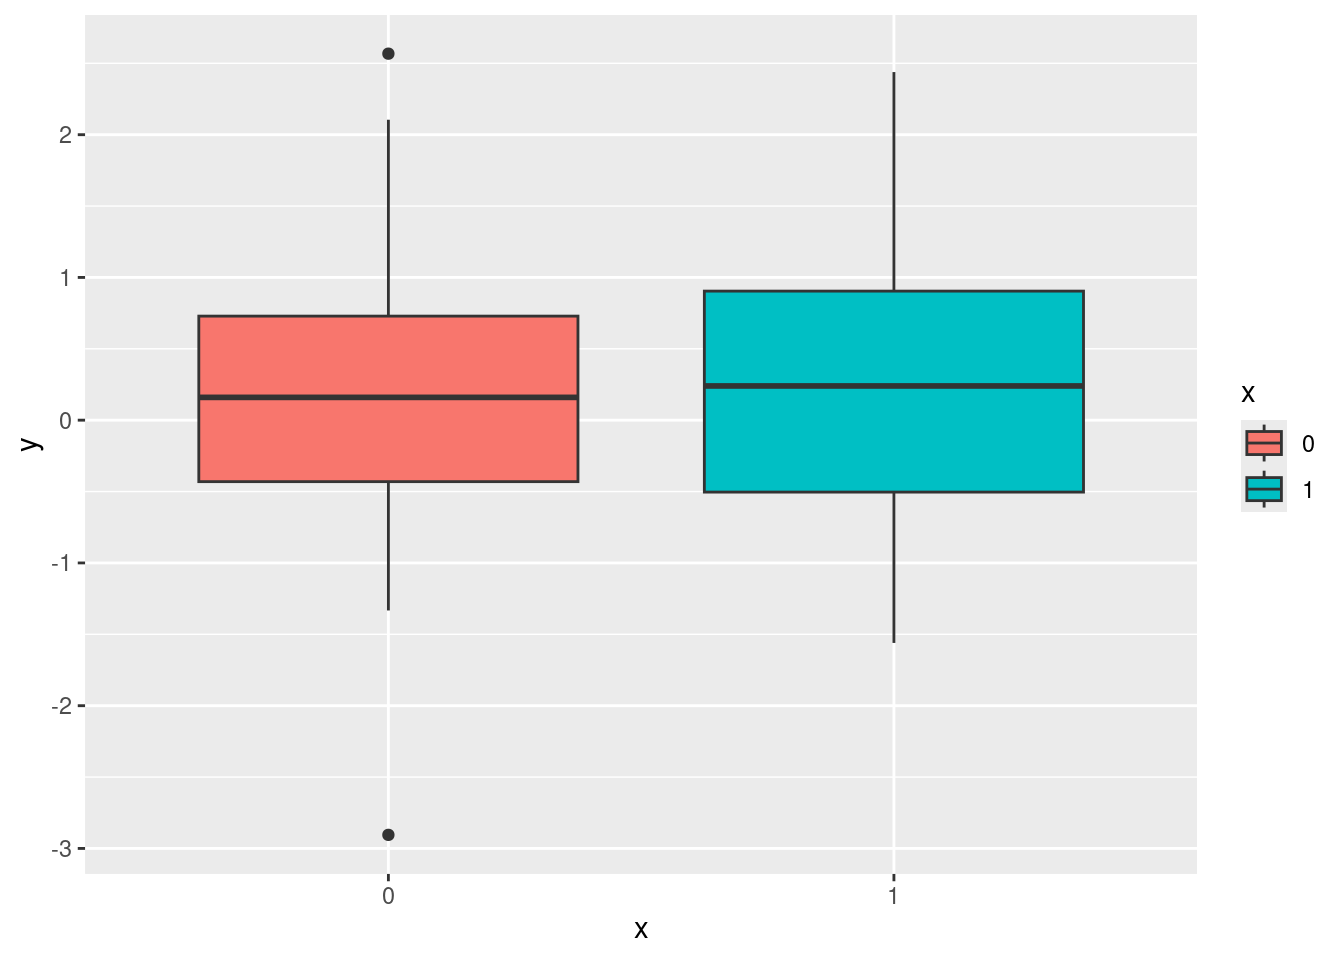
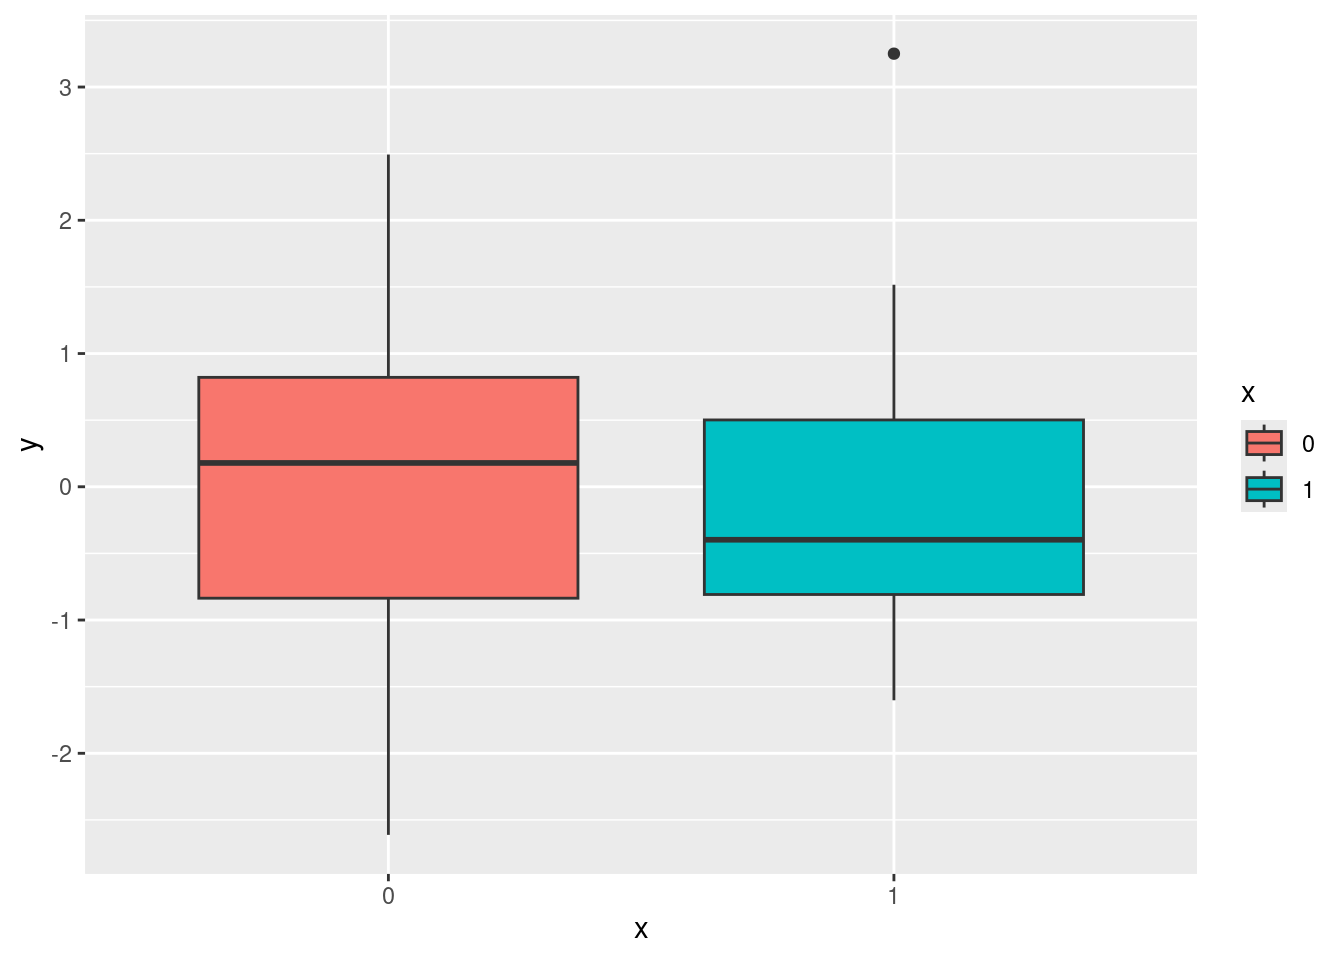
updating book

diff --git a/_book/chapters/chapter4.html b/_book/chapters/chapter4.html
@@ -383,9 +383,9 @@ propose some kind of classification/taxonomy here. for example:
 <span><span class="va">y1</span> <span class="op">&lt;-</span> <span class="fu"><a href="https://rdrr.io/r/stats/Normal.html">rnorm</a></span><span class="op">(</span><span class="va">n1</span>, <span class="va">es</span>, <span class="fl">1</span><span class="op">)</span></span>
 <span></span>
 <span><span class="fu"><a href="https://rdrr.io/r/base/mean.html">mean</a></span><span class="op">(</span><span class="va">y1</span><span class="op">)</span> <span class="op">-</span> <span class="fu"><a href="https://rdrr.io/r/base/mean.html">mean</a></span><span class="op">(</span><span class="va">y0</span><span class="op">)</span> <span class="co"># this is the effect size</span></span>
-<span><span class="co">## [1] 0.1424186</span></span>
+<span><span class="co">## [1] -0.04213681</span></span>
 <span><span class="fu"><a href="https://rdrr.io/r/stats/cor.html">var</a></span><span class="op">(</span><span class="va">y1</span><span class="op">)</span><span class="op">/</span><span class="va">n1</span> <span class="op">+</span> <span class="fu"><a href="https://rdrr.io/r/stats/cor.html">var</a></span><span class="op">(</span><span class="va">y0</span><span class="op">)</span><span class="op">/</span><span class="va">n0</span> <span class="co"># this is the sampling variability</span></span>
-<span><span class="co">## [1] 0.07676008</span></span></code><button title="Copy to Clipboard" class="code-copy-button"><i class="bi"></i></button></pre></div>
+<span><span class="co">## [1] 0.08974446</span></span></code><button title="Copy to Clipboard" class="code-copy-button"><i class="bi"></i></button></pre></div>
 </div>
 <div class="cell">
 <div class="cell-output-display">
@@ -416,16 +416,16 @@ propose some kind of classification/taxonomy here. for example:
 <span><span class="va">sim</span></span></code><button title="Copy to Clipboard" class="code-copy-button"><i class="bi"></i></button></pre></div>
 <div class="cell-output cell-output-stdout">
 <pre><code>   id          yi         vi n0 n1
-1   1  0.91536765 0.05998698 33 33
-2   2  0.21592802 0.05646583 41 41
-3   3 -0.28591840 0.04279212 43 43
-4   4  0.17983651 0.04201626 49 49
-5   5  0.43823997 0.04569011 36 36
-6   6 -0.09135959 0.02806265 43 43
-7   7  0.17825811 0.03853985 44 44
-8   8  0.22267042 0.03863560 41 41
-9   9 -0.51402963 0.03605916 34 34
-10 10  0.25534246 0.05626168 36 36</code></pre>
+1   1  0.45667933 0.06180325 35 35
+2   2  0.05863336 0.05155561 40 40
+3   3 -0.40396340 0.03548404 52 52
+4   4 -0.09711946 0.05421374 40 40
+5   5  0.69154128 0.03592459 55 55
+6   6 -0.42316135 0.05112640 33 33
+7   7  0.09424658 0.04055531 43 43
+8   8  0.66671290 0.07290732 33 33
+9   9  0.57327143 0.05911218 35 35
+10 10  0.13614942 0.04654913 45 45</code></pre>
 </div>
 </div>
 <p>Then we can put everything in a function that can be used to simulate different scenarios.</p>
@@ -433,17 +433,17 @@ propose some kind of classification/taxonomy here. for example:
 <div class="sourceCode" id="cb5"><pre class="downlit sourceCode r code-with-copy"><code class="sourceCode R"></code><button title="Copy to Clipboard" class="code-copy-button"><i class="bi"></i></button></pre></div>
 <div class="cell">
 <div class="cell-output cell-output-stdout">
-<pre><code>   id        yi         vi       sei n0 n1
-1   1 0.6161396 0.04730631 0.2175001 30 30
-2   2 0.4824897 0.08190062 0.2861828 30 30
-3   3 0.2956900 0.04957705 0.2226590 30 30
-4   4 0.5864874 0.04592896 0.2143104 30 30
-5   5 0.5801820 0.05745505 0.2396978 30 30
-6   6 0.1790572 0.06244904 0.2498981 30 30
-7   7 0.7640250 0.05946423 0.2438529 30 30
-8   8 0.7043039 0.06151998 0.2480322 30 30
-9   9 0.7016143 0.07994590 0.2827471 30 30
-10 10 0.5599986 0.09518197 0.3085158 30 30</code></pre>
+<pre><code>   id         yi         vi       sei n0 n1
+1   1  0.7432246 0.07135661 0.2671266 30 30
+2   2  0.8461934 0.06807146 0.2609051 30 30
+3   3  0.6669120 0.06165486 0.2483040 30 30
+4   4  0.6043632 0.07505524 0.2739621 30 30
+5   5  0.8578818 0.09666392 0.3109082 30 30
+6   6  0.6284637 0.06680096 0.2584588 30 30
+7   7 -0.1911972 0.07350648 0.2711208 30 30
+8   8 -0.1507964 0.08312389 0.2883121 30 30
+9   9  0.6823710 0.07519882 0.2742240 30 30
+10 10  0.4169519 0.06719896 0.2592276 30 30</code></pre>
 </div>
 </div>
 </section><section id="vote-counting-based-on-significance-or-direction" class="level2" data-number="4.5"><h2 data-number="4.5" class="anchored" data-anchor-id="vote-counting-based-on-significance-or-direction">
@@ -492,27 +492,27 @@ propose some kind of classification/taxonomy here. for example:
 <span></span>
 <span><span class="fu"><a href="https://rdrr.io/r/utils/head.html">head</a></span><span class="op">(</span><span class="va">reps</span><span class="op">)</span></span></code><button title="Copy to Clipboard" class="code-copy-button"><i class="bi"></i></button></pre></div>
 <div class="cell-output cell-output-stdout">
-<pre><code>  id        yi         vi       sei n0 n1        zi         pval        ci.lb
-1  1 0.9919289 0.07862573 0.2804028 30 30 3.5375143 0.0004039124  0.442349502
-2  2 0.5309135 0.07153431 0.2674590 30 30 1.9850275 0.0471414070  0.006703475
-3  3 0.1814660 0.08390345 0.2896609 30 30 0.6264772 0.5310019605 -0.386258990
-4  4 0.6880203 0.06852721 0.2617770 30 30 2.6282684 0.0085820778  0.174946731
-5  5 0.4598906 0.07557917 0.2749167 30 30 1.6728363 0.0943595228 -0.078936178
-6  6 0.7422399 0.05782128 0.2404606 30 30 3.0867426 0.0020236275  0.270945815
+<pre><code>  id         yi         vi       sei n0 n1        zi       pval       ci.lb
+1  1 0.39139946 0.08625607 0.2936938 30 30 1.3326785 0.18263735 -0.18422990
+2  2 0.32158092 0.07481148 0.2735169 30 30 1.1757261 0.23970435 -0.21450230
+3  3 0.41201105 0.06117261 0.2473310 30 30 1.6658287 0.09574753 -0.07274876
+4  4 0.41229589 0.06573627 0.2563908 30 30 1.6080757 0.10781860 -0.09022094
+5  5 0.08541761 0.07917229 0.2813757 30 30 0.3035714 0.76145445 -0.46606864
+6  6 0.34493848 0.07134634 0.2671074 30 30 1.2913852 0.19657015 -0.17858233
       ci.ub
-1 1.5415083
-2 1.0551234
-3 0.7491909
-4 1.2010938
-5 0.9987173
-6 1.2135339</code></pre>
+1 0.9670288
+2 0.8576641
+3 0.8967708
+4 0.9148127
+5 0.6369039
+6 0.8684593</code></pre>
 </div>
 </div>
 <p>Let’s compute the proportions of replication studies are statistically significant:</p>
 <div class="cell">
 <div class="sourceCode" id="cb11"><pre class="downlit sourceCode r code-with-copy"><code class="sourceCode R"><span><span class="fu"><a href="https://rdrr.io/r/base/mean.html">mean</a></span><span class="op">(</span><span class="va">reps</span><span class="op">$</span><span class="va">pval</span> <span class="op">&lt;=</span> <span class="fl">0.05</span><span class="op">)</span></span></code><button title="Copy to Clipboard" class="code-copy-button"><i class="bi"></i></button></pre></div>
 <div class="cell-output cell-output-stdout">
-<pre><code>[1] 0.6</code></pre>
+<pre><code>[1] 0.3</code></pre>
 </div>
 </div>
 <p>Let’s compute the proportions of replication studies with the same sign as the original:</p>
@@ -583,6 +583,7 @@ propose some kind of classification/taxonomy here. for example:
 </section></section><section id="prediction-interval-pi" class="level2" data-number="4.7"><h2 data-number="4.7" class="anchored" data-anchor-id="prediction-interval-pi">
 <span class="header-section-number">4.7</span> Prediction interval PI</h2>
 <p>There is still one missing information from the CI method that is considering the uncertainty only from the original or the replication study. The prediction interval PI express the uncertainty of a future observation (in this case a study) and not on the estimated parameter.</p>
+<p>If we compute the difference between the original and the replication study, the sampling distribution of the difference express the range of values that are expected <em>in absence of other source of variability</em>. In other terms, assuming that <span class="math inline">\(\tau^2 = 0\)</span>.</p>
 </section><section id="meta-analytic-methods" class="level2" data-number="4.8"><h2 data-number="4.8" class="anchored" data-anchor-id="meta-analytic-methods">
 <span class="header-section-number">4.8</span> Meta-analytic methods</h2>
 </section><section id="bayes-factor" class="level2" data-number="4.9"><h2 data-number="4.9" class="anchored" data-anchor-id="bayes-factor">
